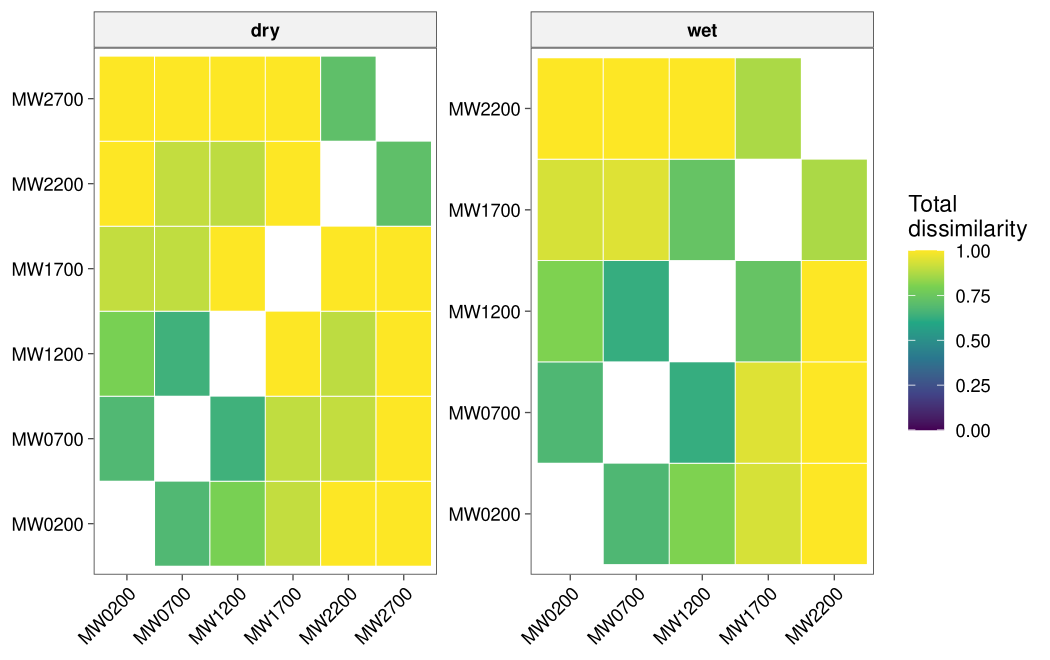
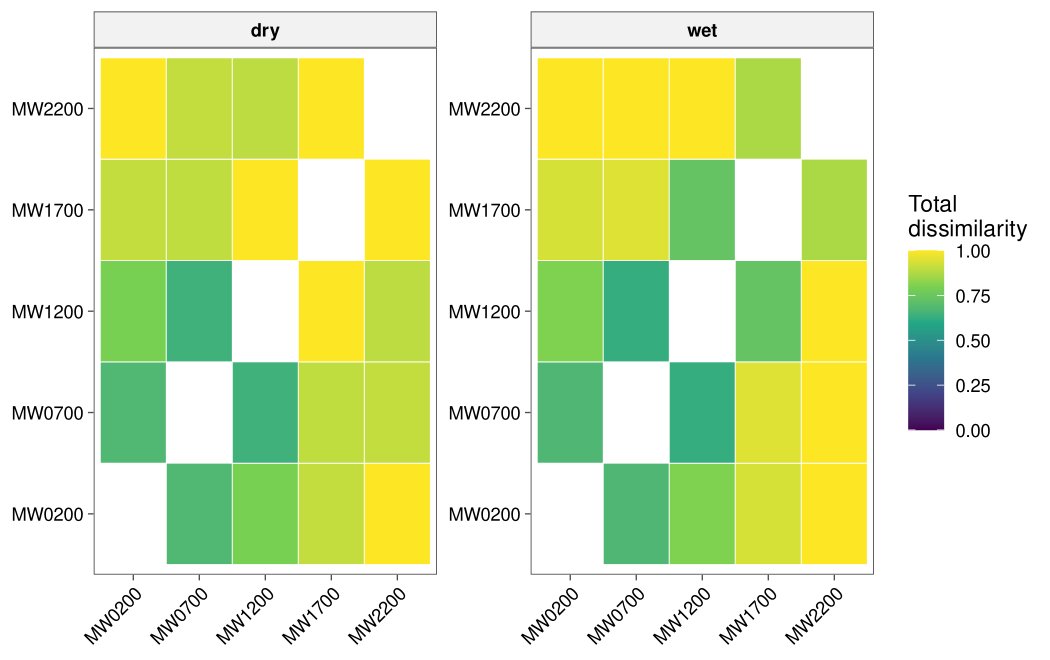
Balance png_ants seasons; clean README output
- png_ants leaves out its single dry-season record at 2700 m (one species
  at three baits), so both seasons cover the same five elevations
  (200-2200 m) and are directly comparable. Documented in ?png_ants.
- Rarefaction plots title only the legends they draw (no "Ignoring
  unknown labels" messages) and wrap long site legends.
- The far-extrapolation warning no longer fires for a site standardised
  to exactly twice its sample size (numerical tolerance).
- README uses the default coverage level, so its examples run without
  warnings; texts mentioning 2700 m updated.

diff --git a/README.md b/README.md
@@ -89,7 +89,7 @@ library(tidydiversity)
 library(dplyr)
 
 div_hill(png_ants, q = c(0, 1, 2), .by = season)
-#> # A tibble: 33 x 5
+#> # A tibble: 30 x 5
 #>    season site       q     n diversity
 #>    <chr>  <chr>  <dbl> <dbl>     <dbl>
 #>  1 dry    MW0200     0    47     16   
@@ -102,31 +102,30 @@ div_hill(png_ants, q = c(0, 1, 2), .by = season)
 #>  8 dry    MW0700     1    23     11.8 
 #>  9 dry    MW0700     2    23      8.67
 #> 10 wet    MW0700     0    58     28   
-#> # i 23 more rows
+#> # i 20 more rows
 ```
 
-Compare sites at equal sample completeness:
+Compare sites at equal sample completeness. By default each season is
+standardised to the lowest coverage that all its sites reach at twice
+their sample size, so no site is extrapolated too far:
 
 ``` r
 set.seed(1)
-div_standardise(png_ants, coverage = 0.8, .by = season, nboot = 50) |>
+div_standardise(png_ants, .by = season, nboot = 50) |>
   filter(q == 0)
-#> Warning: Extrapolation beyond twice the observed sample size at 2 sites.
-#> i Richness (q = 0) estimates there may be strongly biased (Chao et al. 2014).
-#> # A tibble: 11 x 10
-#>    season site       q      m method       coverage diversity     se lower upper
-#>    <chr>  <chr>  <dbl>  <dbl> <chr>           <dbl>     <dbl>  <dbl> <dbl> <dbl>
-#>  1 dry    MW0200     0  29.8  rarefaction     0.800     13.4   1.01  11.5  15.4 
-#>  2 wet    MW0200     0  46.7  rarefaction     0.800     16.0   1.46  13.1  18.8 
-#>  3 dry    MW0700     0 149.   extrapolati~    0.800     57.3  18.5   21.1  93.5 
-#>  4 wet    MW0700     0 119.   extrapolati~    0.800     42.8   6.52  30.0  55.6 
-#>  5 dry    MW1200     0  34.2  extrapolati~    0.800     14.2   1.80  10.6  17.7 
-#>  6 wet    MW1200     0  41.5  rarefaction     0.800     17.3   1.85  13.6  20.9 
-#>  7 dry    MW1700     0   8.01 rarefaction     0.800      3.89  0.544  2.83  4.96
-#>  8 wet    MW1700     0  26.4  rarefaction     0.800      8.57  1.62   5.39 11.7 
-#>  9 dry    MW2200     0  14.6  extrapolati~    0.800      6.35  1.26   3.88  8.83
-#> 10 wet    MW2200     0   9.16 rarefaction     0.800      4.05  0.593  2.88  5.21
-#> 11 dry    MW2700     0   3.00 rarefaction     1          1     0      1     1
+#> # A tibble: 10 x 10
+#>    season site       q      m method        coverage diversity    se lower upper
+#>    <chr>  <chr>  <dbl>  <dbl> <chr>            <dbl>     <dbl> <dbl> <dbl> <dbl>
+#>  1 dry    MW0200     0  11.6  rarefaction      0.565      7.96 0.458  7.07  8.86
+#>  2 wet    MW0200     0  45.1  rarefaction      0.796     15.7  1.42  12.9  18.4 
+#>  3 dry    MW0700     0  46.0  extrapolation    0.565     26.0  5.31  15.6  36.4 
+#>  4 wet    MW0700     0 116    extrapolation    0.796     42.2  6.36  29.8  54.7 
+#>  5 dry    MW1200     0  11.0  rarefaction      0.565      7.17 0.669  5.86  8.48
+#>  6 wet    MW1200     0  40.6  rarefaction      0.796     17.1  1.82  13.5  20.6 
+#>  7 dry    MW1700     0   3.07 rarefaction      0.565      2.32 0.226  1.88  2.77
+#>  8 wet    MW1700     0  25.4  rarefaction      0.796      8.36 1.58   5.26 11.5 
+#>  9 dry    MW2200     0   4.76 rarefaction      0.565      3.48 0.363  2.77  4.20
+#> 10 wet    MW2200     0   8.97 rarefaction      0.796      4.01 0.585  2.86  5.15
 ```
 
 ## Example data from Papua New Guinea
@@ -231,20 +230,12 @@ Every plot that `autoplot()` draws, using `png_ants`.
 Solid lines are rarefied, dashed lines extrapolated to twice the sample
 size; points are the observed samples (wet season).
 
-    #> Ignoring unknown labels:
-    #> * fill : "site"
-    #> * shape : "Order"
-
 <img src="man/figures/README-size-1.png" alt="Rarefaction and extrapolation by sample size" width="100%" />
 
 ### Rarefaction and extrapolation by sample coverage
 
 The same curves plotted against estimated sample coverage, the basis for
 coverage-standardised comparison.
-
-    #> Ignoring unknown labels:
-    #> * fill : "site"
-    #> * shape : "Order"
 
 <img src="man/figures/README-coverage-curve-1.png" alt="Rarefaction and extrapolation by sample coverage" width="100%" />
 
@@ -374,19 +365,16 @@ Coverage standardisation: `diversity` of order `q` at a common
 `coverage` for every site, with the matching sample size `m`, the
 `method` used, and bootstrap `se`, `lower` and `upper` limits.
 
-    #> Warning: Extrapolation beyond twice the observed sample size at 2 sites.
-    #> i Richness (q = 0) estimates there may be strongly biased (Chao et al. 2014).
-
-| season | site   |   q |       m | method        | coverage | diversity |     se |  lower |  upper |
-|:-------|:-------|----:|--------:|:--------------|---------:|----------:|-------:|-------:|-------:|
-| dry    | MW0200 |   0 |  29.841 | rarefaction   |      0.8 |    13.431 |  1.009 | 11.453 | 15.409 |
-| dry    | MW0200 |   1 |  29.841 | rarefaction   |      0.8 |    10.805 |  1.032 |  8.782 | 12.829 |
-| dry    | MW0200 |   2 |  29.841 | rarefaction   |      0.8 |     8.913 |  1.046 |  6.862 | 10.964 |
-| wet    | MW0200 |   0 |  46.735 | rarefaction   |      0.8 |    15.984 |  1.455 | 13.132 | 18.836 |
-| wet    | MW0200 |   1 |  46.735 | rarefaction   |      0.8 |     9.664 |  1.089 |  7.530 | 11.797 |
-| wet    | MW0200 |   2 |  46.735 | rarefaction   |      0.8 |     6.659 |  0.824 |  5.045 |  8.274 |
-| dry    | MW0700 |   0 | 149.047 | extrapolation |      0.8 |    57.270 | 18.463 | 21.082 | 93.457 |
-| dry    | MW0700 |   1 | 149.047 | extrapolation |      0.8 |    32.013 | 16.525 |  0.000 | 64.401 |
+| season | site   |   q |      m | method        | coverage | diversity |    se |  lower |  upper |
+|:-------|:-------|----:|-------:|:--------------|---------:|----------:|------:|-------:|-------:|
+| dry    | MW0200 |   0 | 11.646 | rarefaction   |    0.565 |     7.963 | 0.458 |  7.067 |  8.860 |
+| dry    | MW0200 |   1 | 11.646 | rarefaction   |    0.565 |     7.099 | 0.513 |  6.093 |  8.105 |
+| dry    | MW0200 |   2 | 11.646 | rarefaction   |    0.565 |     6.236 | 0.534 |  5.189 |  7.283 |
+| wet    | MW0200 |   0 | 45.094 | rarefaction   |    0.796 |    15.651 | 1.415 | 12.877 | 18.425 |
+| wet    | MW0200 |   1 | 45.094 | rarefaction   |    0.796 |     9.570 | 1.071 |  7.471 | 11.668 |
+| wet    | MW0200 |   2 | 45.094 | rarefaction   |    0.796 |     6.630 | 0.816 |  5.031 |  8.228 |
+| dry    | MW0700 |   0 | 46.000 | extrapolation |    0.565 |    25.975 | 5.306 | 15.575 | 36.374 |
+| dry    | MW0700 |   1 | 46.000 | extrapolation |    0.565 |    17.858 | 6.141 |  5.821 | 29.895 |
 
 ### `beta_pair()`
 
@@ -399,10 +387,10 @@ components, which sum to `total` dissimilarity.
 | dry    | MW0200 | MW1200 |    0.769 |      0.024 | 0.793 |
 | dry    | MW0200 | MW1700 |    0.800 |      0.105 | 0.905 |
 | dry    | MW0200 | MW2200 |    1.000 |      0.000 | 1.000 |
-| dry    | MW0200 | MW2700 |    1.000 |      0.000 | 1.000 |
 | dry    | MW0700 | MW1200 |    0.615 |      0.027 | 0.643 |
 | dry    | MW0700 | MW1700 |    0.800 |      0.100 | 0.900 |
 | dry    | MW0700 | MW2200 |    0.833 |      0.071 | 0.905 |
+| dry    | MW1200 | MW1700 |    1.000 |      0.000 | 1.000 |
 
 ### `beta_multi()`
 
@@ -411,7 +399,7 @@ Multi-site beta diversity: `n_sites` in each group with the multi-site
 
 | season | n_sites | turnover | nestedness | total |
 |:-------|--------:|---------:|-----------:|------:|
-| dry    |       6 |    0.825 |      0.072 | 0.897 |
+| dry    |       5 |    0.827 |      0.051 | 0.877 |
 | wet    |       5 |    0.790 |      0.074 | 0.864 |
 
 ### `beta_decay()`
@@ -425,10 +413,10 @@ and `gradient_2` values and their `distance`.
 | dry    | MW0200 | MW1200 |    0.769 |      0.024 | 0.793 |        200 |       1200 |     1000 |
 | dry    | MW0200 | MW1700 |    0.800 |      0.105 | 0.905 |        200 |       1700 |     1500 |
 | dry    | MW0200 | MW2200 |    1.000 |      0.000 | 1.000 |        200 |       2200 |     2000 |
-| dry    | MW0200 | MW2700 |    1.000 |      0.000 | 1.000 |        200 |       2700 |     2500 |
 | dry    | MW0700 | MW1200 |    0.615 |      0.027 | 0.643 |        700 |       1200 |      500 |
 | dry    | MW0700 | MW1700 |    0.800 |      0.100 | 0.900 |        700 |       1700 |     1000 |
 | dry    | MW0700 | MW2200 |    0.833 |      0.071 | 0.905 |        700 |       2200 |     1500 |
+| dry    | MW1200 | MW1700 |    1.000 |      0.000 | 1.000 |       1200 |       1700 |      500 |
 
 ## References
 

diff --git a/NEWS.md b/NEWS.md
@@ -1,6 +1,11 @@
 # tidydiversity 0.0.0.9000
 
 * Package scaffold.
+* `png_ants` leaves out its single dry-season record at 2700 m, so both
+  seasons cover the same five elevations (200 to 2200 m) and can be
+  compared directly.
+* Plots no longer print "Ignoring unknown labels" messages, and long
+  site legends wrap instead of running off the figure.
 * Incidence data for TD, PD and FD: `div_hill()`, `div_estimate()`,
   `div_coverage()`, `div_rarefy()` and `div_standardise()` gain `unit`
   (the sampling-unit column) and `n_units` (units sampled, including empty
